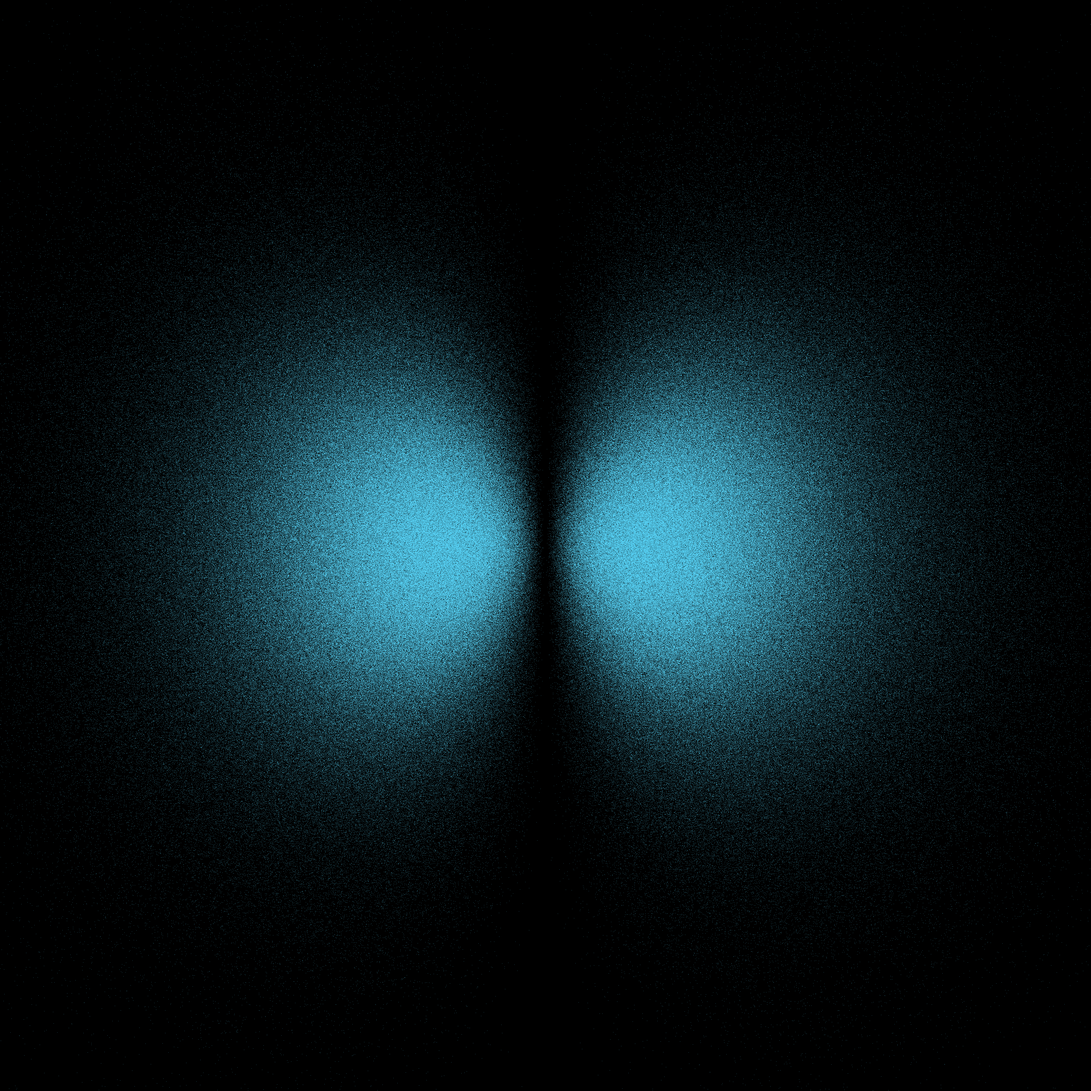
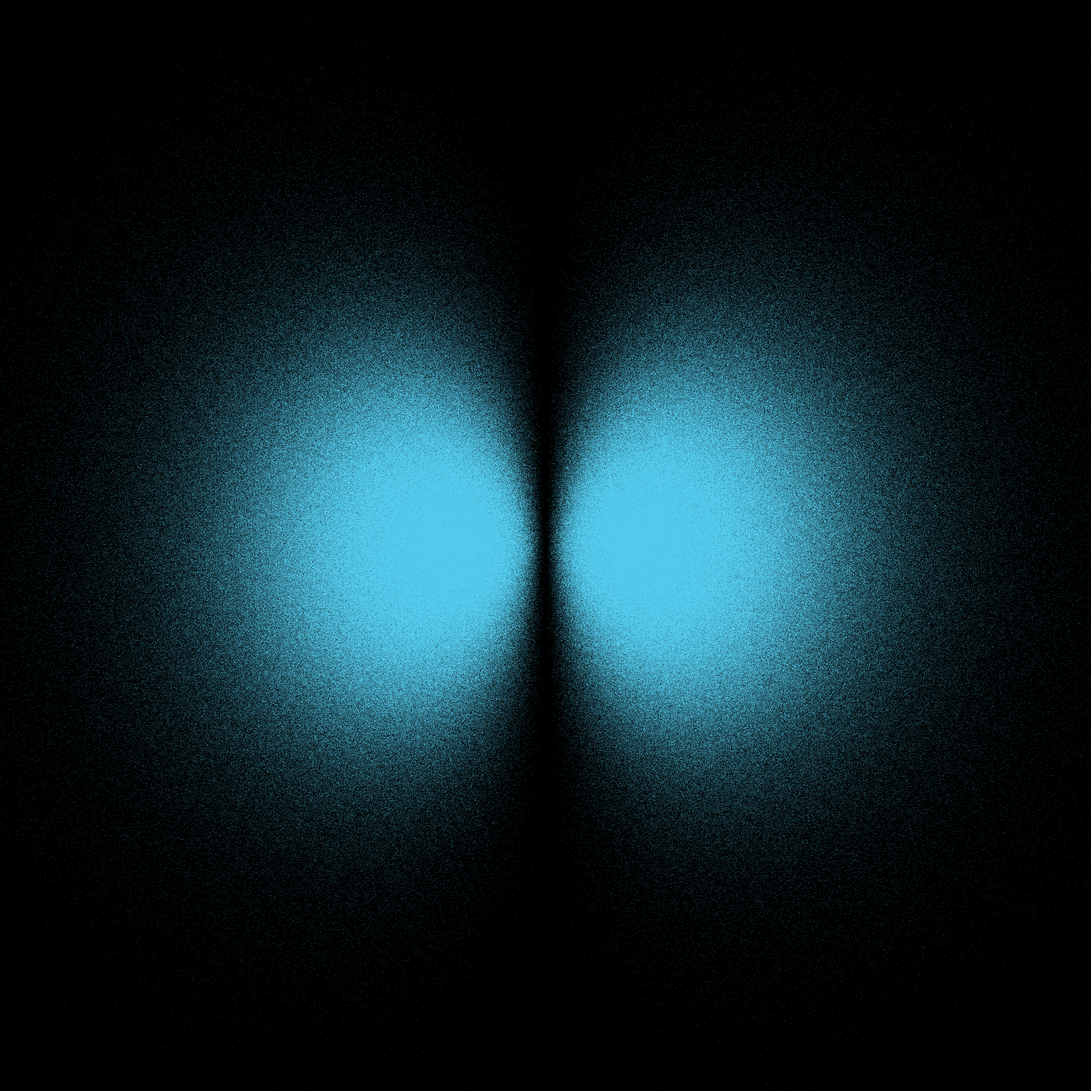
Increase iter

Changed region(s): [[0.0938, 0.2188, 0.9062, 0.7812]]

diff --git a/src/main.rs b/src/main.rs
@@ -7,7 +7,7 @@ use sampler::Sampler;
 use std::env;
 
 const IMG_SIZE: usize = 4096;
-const ITERS: u64 = 6_000_000_000;
+const ITERS: u64 = 12_000_000_000;
 fn main() {
     let args: Vec<String> = env::args().collect();
 
